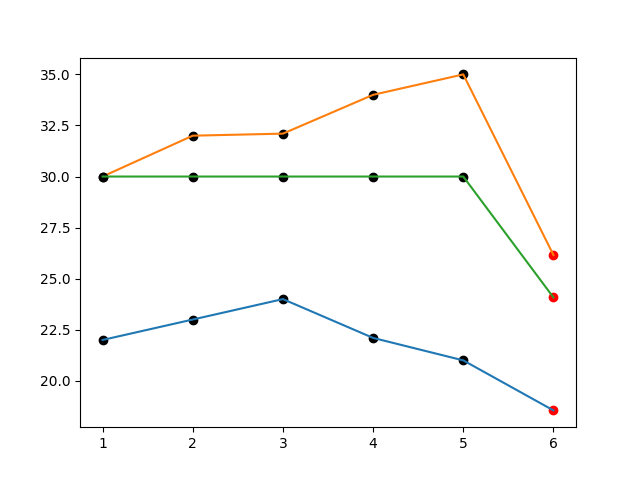
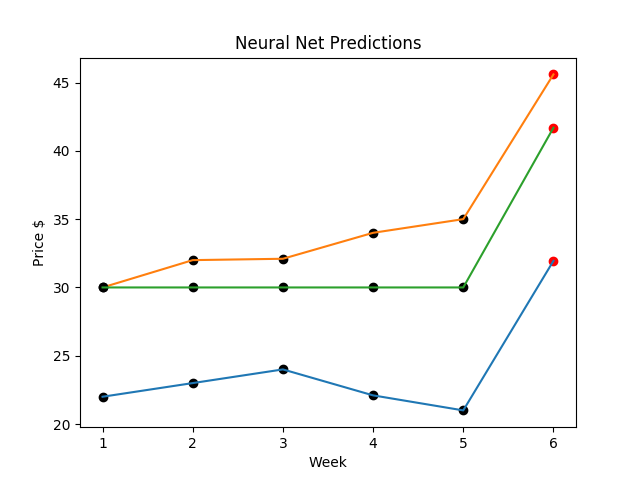
update

diff --git a/neuralNet/nn.py b/neuralNet/nn.py
@@ -61,6 +61,9 @@ class LongTermPredictor:
         for i in range(len(test)):
             plt.plot(np.linspace(1, len(test[i]),len(test[i])), test[i], 'ko', len(test[i])+1, nextValues[i], 'ro')
             plt.plot(np.linspace(1,len(test[i])+1, len(test[i])+1), np.concatenate((test[i],nextValues[i])))
+        plt.title('Neural Net Predictions')
+        plt.xlabel('Week')
+        plt.ylabel('Price $')
         plt.savefig('test.png')
 
 
